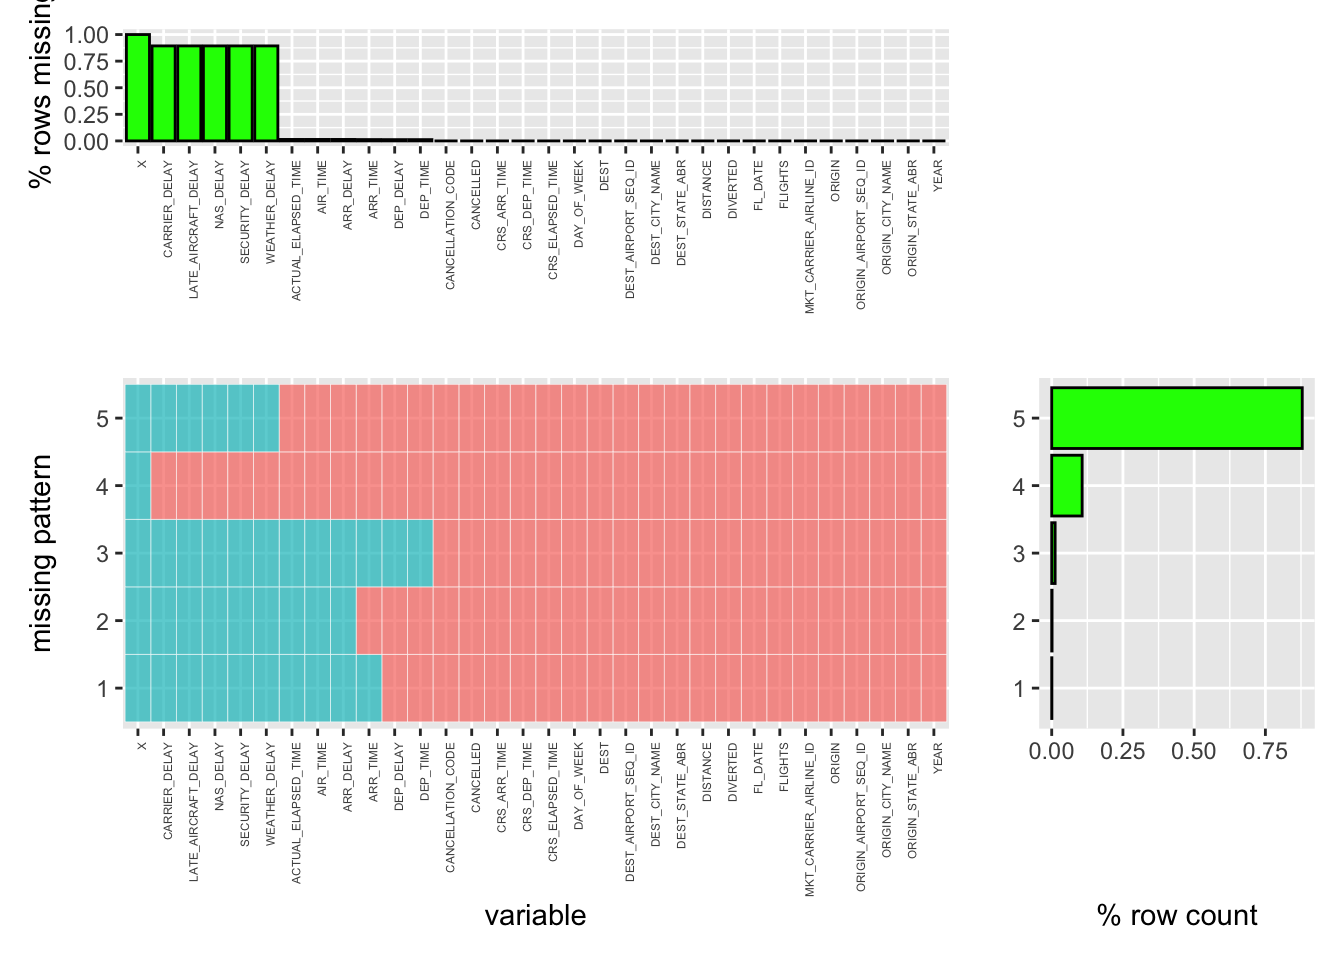
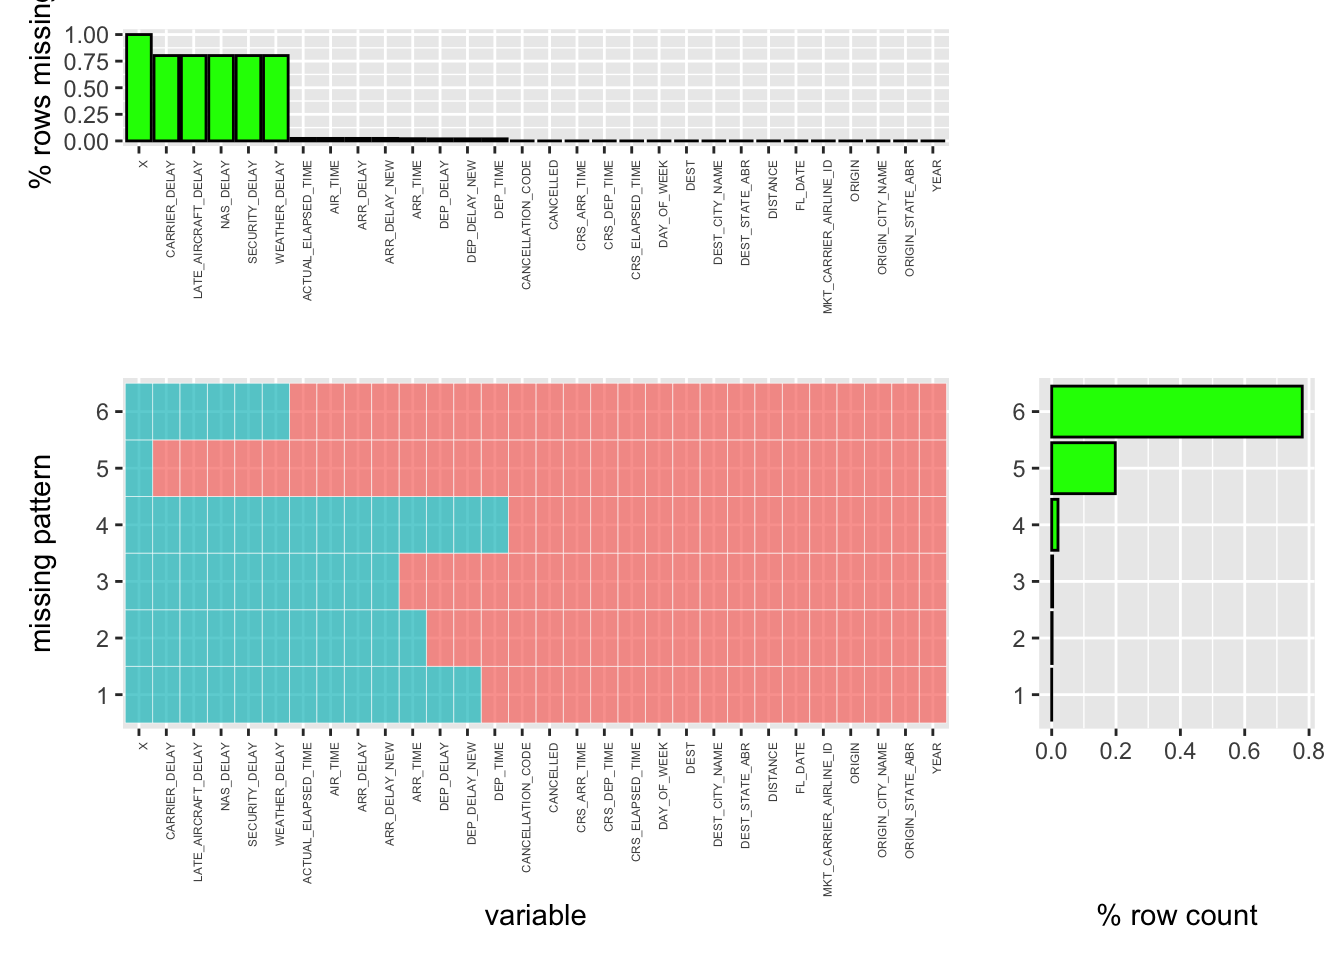
chapter 02, 03, 04

diff --git a/docs/data-sources.html b/docs/data-sources.html
@@ -24,7 +24,7 @@
 <meta name="author" content="Ziyan Liu, Mingyue Xu" />
 
 
-<meta name="date" content="2021-12-09" />
+<meta name="date" content="2021-12-10" />
 
   <meta name="viewport" content="width=device-width, initial-scale=1" />
   <meta name="apple-mobile-web-app-capable" content="yes" />
@@ -101,6 +101,12 @@
             <section class="normal" id="section-">
 <div id="data-sources" class="section level1" number="2">
 <h1><span class="header-section-number">Chapter 2</span> Data sources</h1>
+<p>We collect the data from the Bureau of Transportation Statistics. Ziyan Liu is in charge of pulling the datasets down from the website. Since we want to analyze flight delays, we select the “Aviation” mode in the data finder, find the database called “Airline On-Time Performance Data”, and download tables from “Marketing Carrier On-Time Performance (Beginning January 2018)” (<a href="https://www.transtats.bts.gov/DL_SelectFields.asp?gnoyr_VQ=FGK&amp;QO_fu146_anzr=b0-gvzr" class="uri">https://www.transtats.bts.gov/DL_SelectFields.asp?gnoyr_VQ=FGK&amp;QO_fu146_anzr=b0-gvzr</a>).</p>
+<p>It is nice that the website provides field selection feature, and we select 29 variables that we find useful in our project to include in the datasets. These variables include information about airline carriers, origins, destinations, departure and arrival time and delay situations of U.S. domestic flights. We download 24 tables in total, each containing flight information during one month from January 2019 to December 2020.</p>
+<p>‘YEAR’, ‘DAY_OF_WEEK’, ‘FL_DATE’ are the three variables that indicate the date of flights. ‘MKT_CARRIER_AIRLINE_ID’ is the identification number assigned by US DOT to identify a unique airline (carrier). ‘ORIGIN’, ‘ORIGIN_CITY_NAME’, ‘ORIGIN_STATE_ABR’ are the abbreviation of origin airport, origin city name, and the abbreviation of origin state. ‘DEST’, ‘DEST_CITY_NAME’, ‘DEST_STATE_ABR’ contain information similarly for the destination. ‘CRS_DEP_TIME’ is the CRS departure time of flight, ‘DEP_TIME’ is the actual departure time, ‘DEP_DELAY’ is the departure delay time in minutes, where negative numbers indicate early departure, and ‘DEP_DELAY_NEW’ is the same with ‘DEP_DELAY’ except negative numbers are replaced by 0. Arrival information are encoded in the ‘ARR’ variables similarly. ‘CANCELLED’ indicates if the flight is cancelled, where 1 means it is, and ‘CANCELLATION_CODE’ specifies reasons for cancellation. ‘CRS_ELAPSED_TIME’ is the estimated elapsed time of flight in minutes, ‘ACTUAL_ELAPSED_TIME’ is the actual time, and ‘AIR_TIME’ is the flight time. ‘DISTANCE’ gives the distance between airports in miles. Lastly, ‘CARRIER_DELAY’, ‘WEATHER_DELAY’, ‘NAS_DELAY’, ‘SECURITY_DELAY’ and ‘LLATE_AIRCRAFT_DELAY’ are the causes of delay in minutes.</p>
+<p>The datasets before March 2020 contain about 650,000 records per month, and there is a significant drop after March 2020, obviously due to the pandemic, where each contains about 350,000 records. In total, there are 8,066,815 and 5,022,397 records of U.S. domestic flights respectively in 2019 and 2020.</p>
+<p>The datasets contain very detailed information and statistics. We found that, however, there are flights that did not fly and are NA’s in the tables, and that some flights are delayed, but no specific reasons are given.
+<!-- It causes some mismatch when we analyze the reasons that cause flight delays. --></p>
 
 </div>
             </section>

diff --git a/docs/results.html b/docs/results.html
@@ -24,7 +24,7 @@
 <meta name="author" content="Ziyan Liu, Mingyue Xu" />
 
 
-<meta name="date" content="2021-12-09" />
+<meta name="date" content="2021-12-10" />
 
   <meta name="viewport" content="width=device-width, initial-scale=1" />
   <meta name="apple-mobile-web-app-capable" content="yes" />
@@ -101,18 +101,21 @@
             <section class="normal" id="section-">
 <div id="results" class="section level1" number="5">
 <h1><span class="header-section-number">Chapter 5</span> Results</h1>
-<ol style="list-style-type: decimal">
-<li>Among all the carriers that provide commercial services in U.S., are there any carriers that have major delay problems? For example, the average delay time is over 60 minutes.</li>
-</ol>
+<p>PROBLEM ONE: Among all the carriers that provide commercial services in U.S., are there any carriers that have major delay problems? For example, the average delay time is over 60 minutes.</p>
 <p><img src="finalproj_files/figure-html/airline%20delay%20count-1.png" width="672" /></p>
 <p>The dataframe <code>NY_Jan_delayCount</code> shows the number of delays for each carrier within the January. We plot a simple bar graph to manifest the result more explicitly. Note that this figure only shows the number of times that the delay occurs, on the other side, we need to evaluate the averaged severity of the delays, i.e. the averaged time of the delays for each carrier.</p>
 <p><img src="finalproj_files/figure-html/airline%20delay%20average-1.png" width="672" /></p>
 <p>Moreover, we hope to explore the results for concrete delay reasons, i.e. <code>CARRIER_DELAY</code>, <code>WEATHER_DELAY</code>, <code>NAS_DELAY</code>, <code>SECURITY_DELAY</code> and <code>LATE_AIRCRAFT_DELAY</code>,</p>
-<p><img src="finalproj_files/figure-html/delay%20reason-1.png" width="672" /></p>
-<p>PROBLEM TWO:</p>
-<p><img src="finalproj_files/figure-html/performance%20based%20on%20CRS_DEP_TIME-1.png" width="672" /><img src="finalproj_files/figure-html/performance%20based%20on%20CRS_DEP_TIME-2.png" width="672" /></p>
-<p>PROBLEM THREE
-<img src="finalproj_files/figure-html/to%20NYC%20problem-1.png" width="672" /></p>
+<p><img src="finalproj_files/figure-html/delay%20reason-1.png" width="672" /><img src="finalproj_files/figure-html/delay%20reason-2.png" width="672" /><img src="finalproj_files/figure-html/delay%20reason-3.png" width="672" /><img src="finalproj_files/figure-html/delay%20reason-4.png" width="672" /><img src="finalproj_files/figure-html/delay%20reason-5.png" width="672" /></p>
+<p>PROBLEM TWO: Are early flights or late flights more likely to delay? Do origin and destination influence the on-time performance?</p>
+<p><img src="finalproj_files/figure-html/performance%20based%20on%20CRS_DEP_TIME-1.png" width="672" /></p>
+<p><img src="finalproj_files/figure-html/unnamed-chunk-6-1.png" width="672" /></p>
+<pre><code>##  [1] &quot;12&quot; &quot;03&quot; &quot;06&quot; &quot;09&quot; &quot;01&quot; &quot;04&quot; &quot;07&quot; &quot;10&quot; &quot;02&quot; &quot;05&quot; &quot;08&quot; &quot;11&quot;</code></pre>
+<p><img src="finalproj_files/figure-html/unnamed-chunk-7-1.png" width="672" /></p>
+<p><img src="finalproj_files/figure-html/unnamed-chunk-8-1.png" width="672" /></p>
+<p>PROBLEM THREE: Specifically for NYC. If someone wants to come to NYC, which airport should s/he choose to fly to based on the origin city?</p>
+<p><img src="finalproj_files/figure-html/to%20NYC%20problem-1.png" width="672" /></p>
+<p><img src="finalproj_files/figure-html/unnamed-chunk-9-1.png" width="672" /></p>
 
 </div>
             </section>

diff --git a/docs/missing-values.html b/docs/missing-values.html
@@ -24,7 +24,7 @@
 <meta name="author" content="Ziyan Liu, Mingyue Xu" />
 
 
-<meta name="date" content="2021-12-09" />
+<meta name="date" content="2021-12-10" />
 
   <meta name="viewport" content="width=device-width, initial-scale=1" />
   <meta name="apple-mobile-web-app-capable" content="yes" />
@@ -102,8 +102,9 @@
 <div id="missing-values" class="section level1" number="4">
 <h1><span class="header-section-number">Chapter 4</span> Missing values</h1>
 <p><img src="finalproj_files/figure-html/missing%20patterns-1.png" width="672" /></p>
-<p>Above is a plot of missing patterns and count of missing values. We can see that the variable <code>x</code> is missing in all rows, so we can remove it from our dataset. Further, more than 90% of data follows the top missing pattern as shown in the plot. The variables <code>CARRIER_DELAY</code>, <code>LATE_AIRCRAFT_DELAY</code>, <code>NAS_DELAY</code>, <code>SECURITY_DELAY</code> and <code>WEATHER_DELAY</code> are missing in this pattern, indicating that these flights did not delay. In the second most frequent missing pattern, these variables have non-NA values. It implies that the flight was delayed and the delay time due to these reasons are shown in the dataset.</p>
-<p>The bottom three missing patterns are much less frequent than the other two. The missing values in <code>ARR_TIME</code>, <code>DEP_TIME</code> cause the missing in <code>ARR_DELAY</code> and <code>DEP_DELAY</code> respectively, and it may be caused by cancellation of flights, or may be caused by errors in the data collection. Fortunately, such incomplete samples only take up a small proportion, thus having little effect on data analysis.</p>
+<p>Above is a plot of missing patterns and count of missing values. We can see that the variable <code>x</code> is missing in all rows, so we can remove it from our dataset. Further, approximately 80% of data follows the top missing pattern as shown in the plot. The variables <code>CARRIER_DELAY</code>, <code>LATE_AIRCRAFT_DELAY</code>, <code>NAS_DELAY</code>, <code>SECURITY_DELAY</code> and <code>WEATHER_DELAY</code> are missing in this pattern, indicating that these flights did not have a delay reason. In the second most frequent missing pattern, these variables have non-NA values. It implies that the flight was delayed and the delay time due to these reasons are shown in the dataset.</p>
+<p>The bottom four missing patterns are much less frequent than the top two. The missing values in <code>ARR_TIME</code>, <code>DEP_TIME</code> cause the missing in <code>ARR_DELAY</code> and <code>DEP_DELAY</code> respectively, and it may be caused by cancellation of flights, or may be caused by errors in the data collection. Fortunately, such incomplete samples only take up a small proportion, thus having little effect on data analysis.</p>
+<p>According to the result of missing pattern plotting, we would like to clean the worthless column <code>x</code>, and also those incomplete data points, which has some delay-irrelevant features being NA values.</p>
 
 </div>
             </section>

diff --git a/docs/data-transformation.html b/docs/data-transformation.html
@@ -24,7 +24,7 @@
 <meta name="author" content="Ziyan Liu, Mingyue Xu" />
 
 
-<meta name="date" content="2021-12-09" />
+<meta name="date" content="2021-12-10" />
 
   <meta name="viewport" content="width=device-width, initial-scale=1" />
   <meta name="apple-mobile-web-app-capable" content="yes" />
@@ -101,7 +101,7 @@
             <section class="normal" id="section-">
 <div id="data-transformation" class="section level1" number="3">
 <h1><span class="header-section-number">Chapter 3</span> Data transformation</h1>
-<p>According to the result of missing pattern plotting, we would like to clean the worthless column <code>x</code>, and also those incomplete data points, which has some delay-irrelevant features being NA values.</p>
+<p>The downloaded monthly data are stored in csv files, so we simply read the data with R function <code>read.csv</code> and store them in respective variables. Then we combine them by year using ‘rbind’ function to variables <code>US_2019</code> and <code>US_2020</code>.</p>
 
 </div>
             </section>

diff --git a/docs/index.html b/docs/index.html
@@ -24,7 +24,7 @@
 <meta name="author" content="Ziyan Liu, Mingyue Xu" />
 
 
-<meta name="date" content="2021-12-09" />
+<meta name="date" content="2021-12-10" />
 
   <meta name="viewport" content="width=device-width, initial-scale=1" />
   <meta name="apple-mobile-web-app-capable" content="yes" />
@@ -102,7 +102,7 @@
 <div id="header">
 <h1 class="title">Flight Performance Analysis</h1>
 <p class="author"><em>Ziyan Liu, Mingyue Xu</em></p>
-<p class="date"><em>2021-12-09</em></p>
+<p class="date"><em>2021-12-10</em></p>
 </div>
 <div id="introduction" class="section level1" number="1">
 <h1><span class="header-section-number">Chapter 1</span> Introduction</h1>

diff --git a/docs/404.html b/docs/404.html
@@ -24,7 +24,7 @@
 <meta name="author" content="Ziyan Liu, Mingyue Xu" />
 
 
-<meta name="date" content="2021-12-09" />
+<meta name="date" content="2021-12-10" />
 
   <meta name="viewport" content="width=device-width, initial-scale=1" />
   <meta name="apple-mobile-web-app-capable" content="yes" />

diff --git a/docs/conclusion.html b/docs/conclusion.html
@@ -24,7 +24,7 @@
 <meta name="author" content="Ziyan Liu, Mingyue Xu" />
 
 
-<meta name="date" content="2021-12-09" />
+<meta name="date" content="2021-12-10" />
 
   <meta name="viewport" content="width=device-width, initial-scale=1" />
   <meta name="apple-mobile-web-app-capable" content="yes" />

diff --git a/docs/interactive-component.html b/docs/interactive-component.html
@@ -24,7 +24,7 @@
 <meta name="author" content="Ziyan Liu, Mingyue Xu" />
 
 
-<meta name="date" content="2021-12-09" />
+<meta name="date" content="2021-12-10" />
 
   <meta name="viewport" content="width=device-width, initial-scale=1" />
   <meta name="apple-mobile-web-app-capable" content="yes" />
